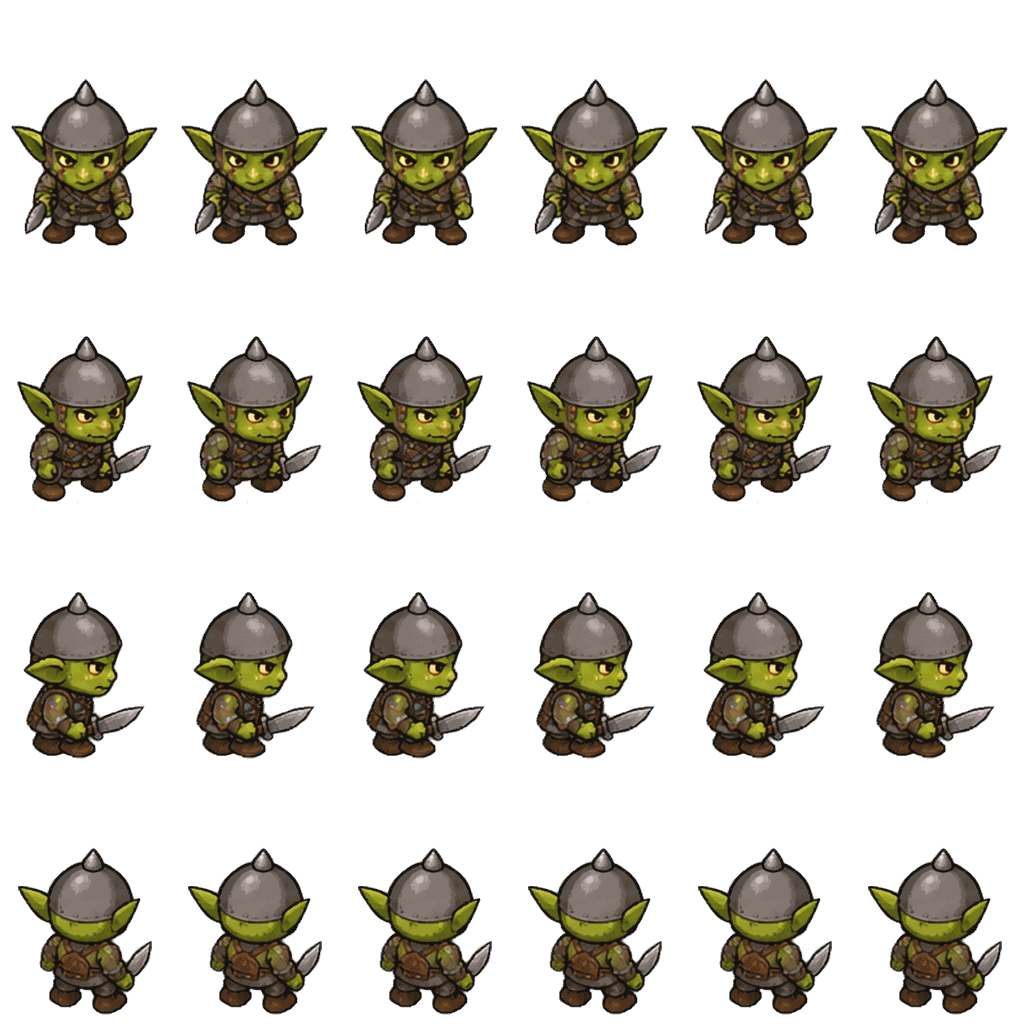
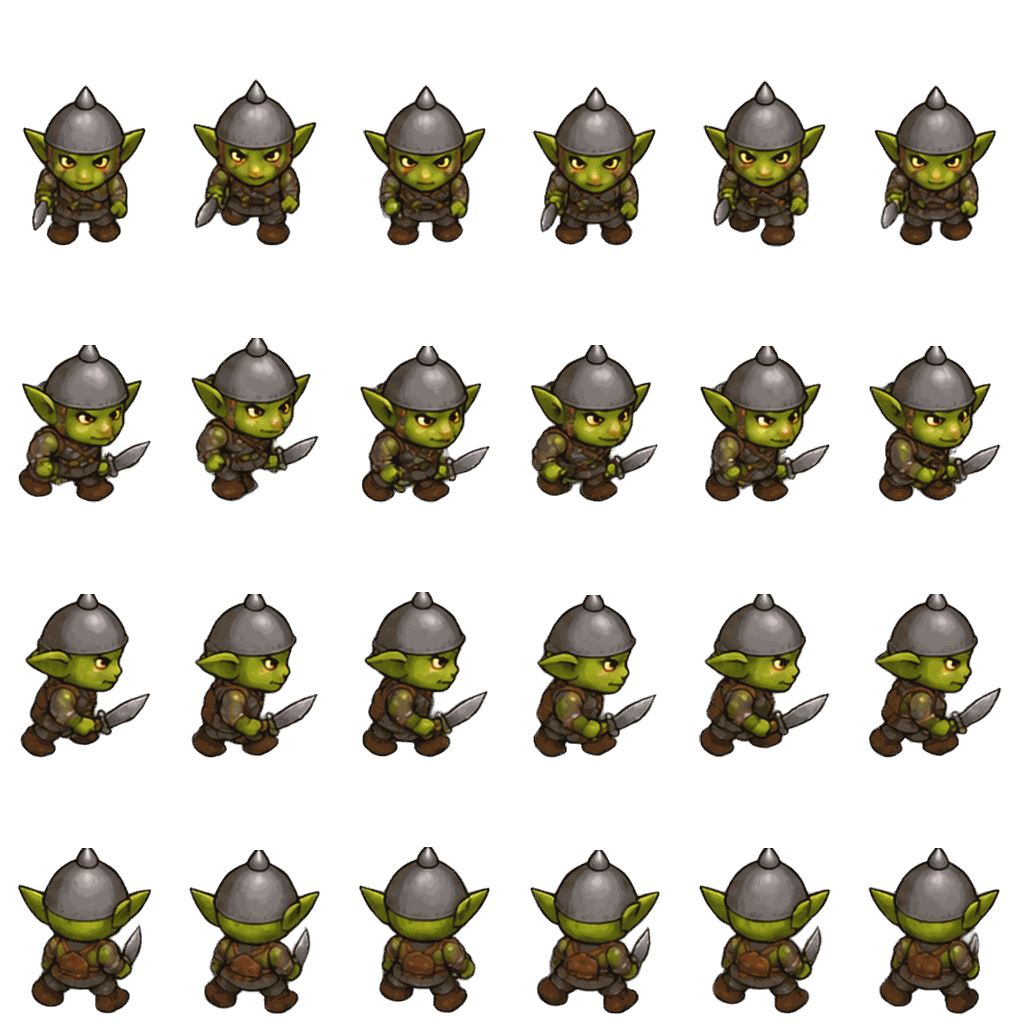
build 390 — the goblin walks in every direction
The walk sheet arrived as eight facings by six frames; the engine draws four
and mirrors the rest, so the first four rows are what it uses. Idle comes free
from the same sheet — sprite.js measures which frame has both feet on the
ground and holds it, facing whichever way the creature last moved.

The sprites carried a detached shadow blob under the boots, lower than the
feet, in eighteen of the twenty-four cells. That blob was defining the ground
line, which would have floated the goblin up to eighteen pixels above the
floor. Each frame is reduced to its largest connected figure before anything
else happens.

Claude-Session: https://claude.ai/code/session_01Q55X5n8LA6xgNosSpJws7r

diff --git a/sw.js b/sw.js
@@ -2,7 +2,7 @@
    Deliberately narrow: it never touches cross-origin requests and never
    touches range requests, because a greedy SW broke a previous project.
    Bump CACHE on every deploy. */
-const CACHE = 'karti-v389';
+const CACHE = 'karti-v390';
 /* ── THE SHELL, NOT THE GAME ─────────────────────────────────────────────────
    This list used to be 205 entries / ~24 MB — every game module and every
    per-game portrait — so a first install (and EVERY version bump) re-fetched

diff --git a/index.html b/index.html
@@ -2449,7 +2449,7 @@ window.KARTI_THEME = (function(){
    over a MessageChannel, and the answer comes from the script iOS actually
    activated — not from the server, not from a constant. Keep BUILD in step
    with CACHE in sw.js (bump both on every deploy). */
-var KARTI_BUILD = 389;
+var KARTI_BUILD = 390;
 window.KARTI_BUILD = KARTI_BUILD;
 window.swVersion = function(){
   return new Promise(function(resolve){
